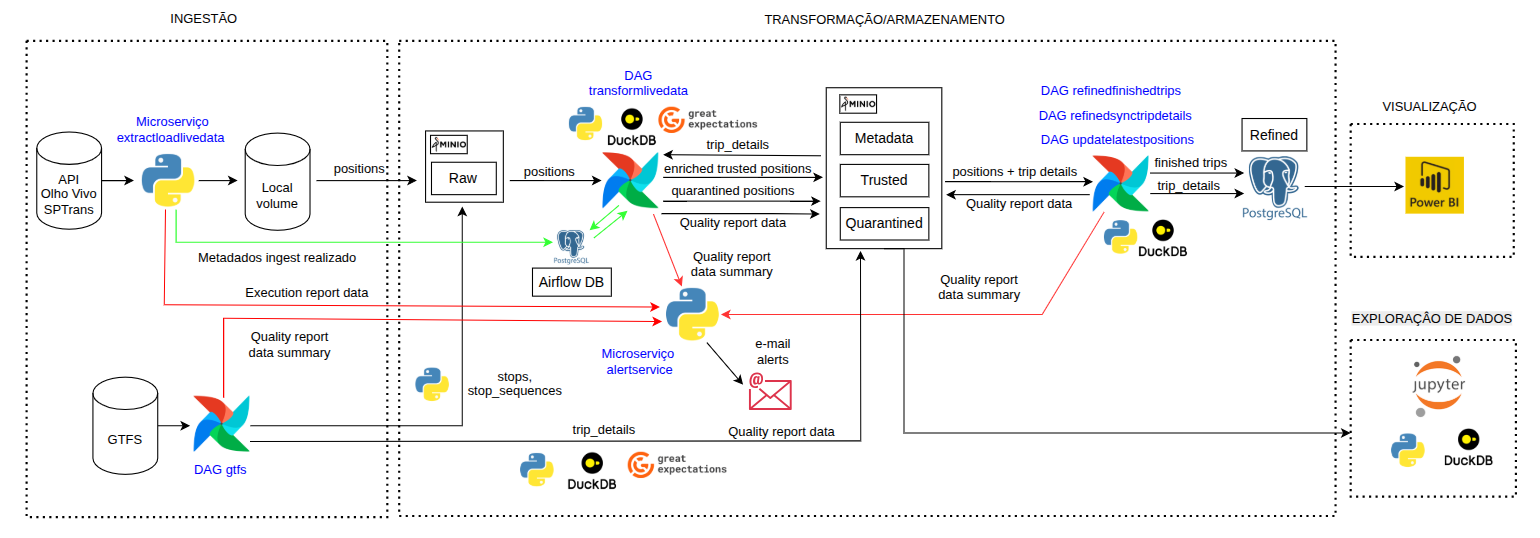
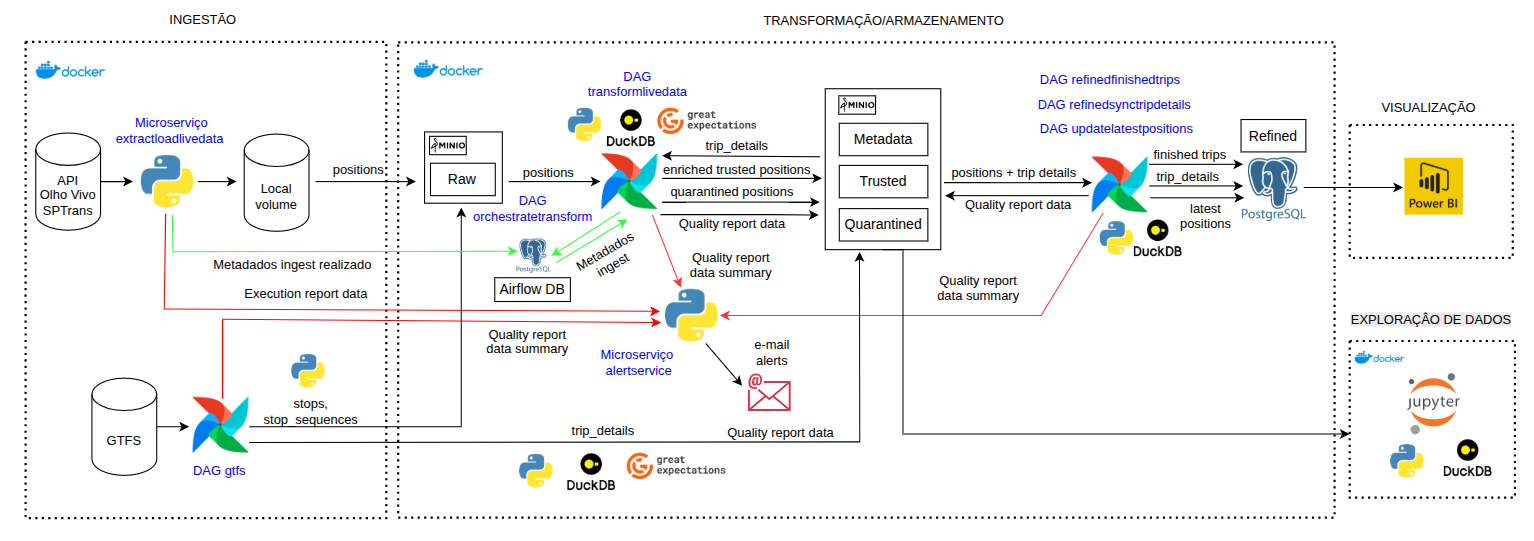
docs(monorepo): improved README and diagrams for better architecture understanding

diff --git a/README.md b/README.md
@@ -11,12 +11,20 @@ A solução adota o conceito de monorepo e é composta por alguns subprojetos. C
 ![Diagrama da solução](./diagrama_solucao.png)
 
 Para implementar a solução foram adotados os componentes:
+- Docker e Docker Compose: utilizados para empacotar e executar os componentes da solução em containers, além de orquestrar a subida do ambiente local com serviços como Airflow, PostgreSQL, MinIO, Jupyter, extractloadlivedata e alertservice, reduzindo o esforço de configuração manual e aumentando a reprodutibilidade do ambiente.
+- extractloadlivedata: microserviço que extrai os dados da API da SPTRANS a intervalos regulares, inicialmente a cada 2 minutos, mas possibilitando que este intervalo seja reduzido, o que não seria viável usando um job no Airflow, uma vez que atrasos na execução impactariam a precisão dos intervalos entre execuções da extração de dados, e salvando em um volume local e em seguida na camada raw, implementada usando o Minio. ![Para mais informações:](./extractloadlivedata/README.md)
+- alertservice: microserviço que recebe resumos de qualidade via webhook do microserviço de ingest e dos pipelines, e envia notificações por e-mail com alertas imediatos para falhas e alertas cumulativos para warnings baseados em limiares configuráveis por pipeline. ![Para mais informações:](./alertservice/README.md)
+- Minio: utilizado para implementar a camada raw, para armazenamento de dados brutos extraídos da API SPTrans e dados GTFS da SPTrans, e para a camada trusted, com dados trasnformados e com qualidade checada
+- DuckDB: utilizado nos processos de transformação para fazer queries SQL diretamente nas tabelas armazenadas em formato Parquet na camada trusted, implementada através do Minio, com excelente performance, e sem requerer a implementação de motores SQL como o Presto, assim reduzindo a complexidade da infraestrutura. Utilizado também para análise exploratória de dados com intermédio do Jupyter
+- Jupyter: usado para criar notebooks com a finalidade de viabilizar a exploração de dados na camada trusted armazenada no object storage. ![Para mais informações:](./jupyter/README.md)
+- PostgreSQL: utilizado para armazenar a camada refined, porporcionando consultas com baixa latência na camada de visualização.
+- PowerBI: utilizado para implementar a camada de visualização devido a sua flexibilidade, poder e larga adoção, consumindo dados diretamente da camada refined através do recurso de direct query ao PostgreSQL. ![Para mais informações:](./powerbi/README.md)
 - Airflow: para orquestração de processos recorrentes do pipeline através de diversas DAGs utilizando o Python Operator. O ambiente de produção para este módulo se encontra na pasta airflow. ![Para mais informações:](./airflow/README.md). 
 O ambiente de desenvolvimento se encontra na pasta dags-dev. ![Para mais informações:](./dags-dev/README.md)
 Detalhes sobre as DAGS:
     - DAG gtfs: processo composto de 3 etapas principais.   
         - extração e carga de arquivos: que extrai os dados GTFS da SPTRANS, valida os arquivos e salva na camada raw (ou quarentena em caso de falha).
-        - transformação: executa a **TRANSFORMATION STAGE** com validação de qualidade (Great Expectations quando aplicável), staging de artefatos (tabelas) em formato Parquet, quarentena em caso de falha e promoção para caminho final em caso de sucesso.
+        - transformação: executa a transformação das posições com validação de qualidade (Great Expectations quando aplicável), staging de artefatos (tabelas) em formato Parquet, quarentena em caso de falha e promoção para caminho final em caso de sucesso.
         - enrichment: cria a tabela `trip_details` em staging, valida com Great Expectations e só então promove para caminho final (ou quarentena em caso de falha).
         - qualidade: gera um relatório consolidado único por execução, persistido em bucket de metadados, incluindo diagnósticos por fase e linhagem de colunas de `trip_details` com detecção de drift.
         - Esta DAG emite um sinal (dataset do Airflow) ao ser finalizada com sucesso, permitindo que a DAG de sincronização dos detalhes de viagens para a camada refined seja iniciada automaticamente.
@@ -42,13 +50,16 @@ Detalhes sobre as DAGS:
     - DAG refinedsynctripdetails: processo de carga dos detalhes de viagens canônicos da camada trusted para a camada refined, com adaptação leve para consumo da camada de visualização, especialmente em linhas circulares. Esta DAG é iniciada assim que a DAG gtfs é finalizada com sucesso através do uso do mecanismo datasets do Airflow. ![Para mais informações:](./dags-dev/refinedsynctripdetails/README.md)
     - DAG updatelatestpositions: processo de transformação para criação dos dados de última posição de cada ônibus na camada refined a partir dos dados da camada trusted. A partir da versão 4 deste pipeline, a DAG no Airflow deixa de depender de agendamento por cron e passa a ser disparada por um Airflow Dataset emitido pelo pipeline `transformlivedata`, o que maximiza o freshness da tabela `refined.latest_positions`, que passa a ser atualizada logo após a publicação bem sucedida dos dados transformados, e simplifica a manutenção ao remover o acoplamento entre cron schedules upstream e downstream. ![Para mais informações:](./dags-dev/updatelatestpositions/README.md)
 
-- extractloadlivedata: microserviço que extrai os dados da API da SPTRANS a intervalos regulares, inicialmente a cada 2 minutos, mas possibilitando que este intervalo seja reduzido, o que não seria viável usando um job no Airflow, uma vez que atrasos na execução impactariam a precisão dos intervalos entre execuções da extração de dados, e salvando em um volume local e em seguida na camada raw, implementada usando o Minio. ![Para mais informações:](./extractloadlivedata/README.md)
-- alertservice: microserviço que recebe resumos de qualidade via webhook de `transformlivedata`, `gtfs` e `extractloadlivedata`, e envia notificações por e-mail com alertas imediatos para falhas e alertas cumulativos para warnings baseados em limiares configuráveis por pipeline. ![Para mais informações:](./alertservice/README.md)
-- Minio: utilizado para implementar as camadas raw, para armazenamento de dados brutos extraídos da API SPTrans e dados GTFS da SPTrans, e para os dados da camada trusted
-- DuckDB: utilizado nos processos de transformação para fazer queries SQL diretamente nas tabelas armazenadas em formato Parquet na camada trusted, implementada através do Minio, com excelente performance, e sem requerer a implementação de motores SQL como o Presto, assim reduzindo a complexidade da infraestrutura. Utilizado também para análise exploratória de dados com intermédio do Jupyter
-- Jupyter: usado para criar notebooks com a finalidade de viabilizar a exploração de dados na camada trusted armazenada no object storage. ![Para mais informações:](./jupyter/README.md)
-- PostgreSQL: utilizado para armazenar a camada refined, porporcionando consultas com baixa latência na camada de visualização.
-- PowerBI: utilizado para implementar a camada de visualização devido a sua flexibilidade, poder e larga adoção, consumindo dados diretamente da camada refined através do recurso de direct query ao PostgreSQL. ![Para mais informações:](./powerbi/README.md)
+### Orquestração por eventos no Airflow
+O diagrama abaixo complementa a descrição das DAGs mostrando a orquestração orientada a eventos atualmente implementada no Airflow por meio de Datasets.
+
+![Diagrama de eventos do Airflow](./diagrama_eventos_airflow.png)
+
+- `gtfs` publica o Dataset `gtfs://trip_details_ready`
+- `refinedsynctripdetails` é disparada por esse Dataset, ou seja, é executado automaticamente após a conclusão com sucesso do pipeline gtfs
+- `transformlivedata` publica o Dataset `sptrans://trusted/transformed_positions_ready`
+- `refinedfinishedtrips` e `updatelatestpositions` são disparadas por esse Dataset , ou seja, são executados automaticamente após a conclusão com sucesso do pipeline transformlivedata
+
 
 ## Configuração
 Um template de configuração está disponível em `.env.example` na raiz do projeto. Este arquivo contém todas as variáveis de ambiente necessárias para o funcionamento da infraestrutura (MinIO, Airflow, alertservice, extractloadlivedata).
